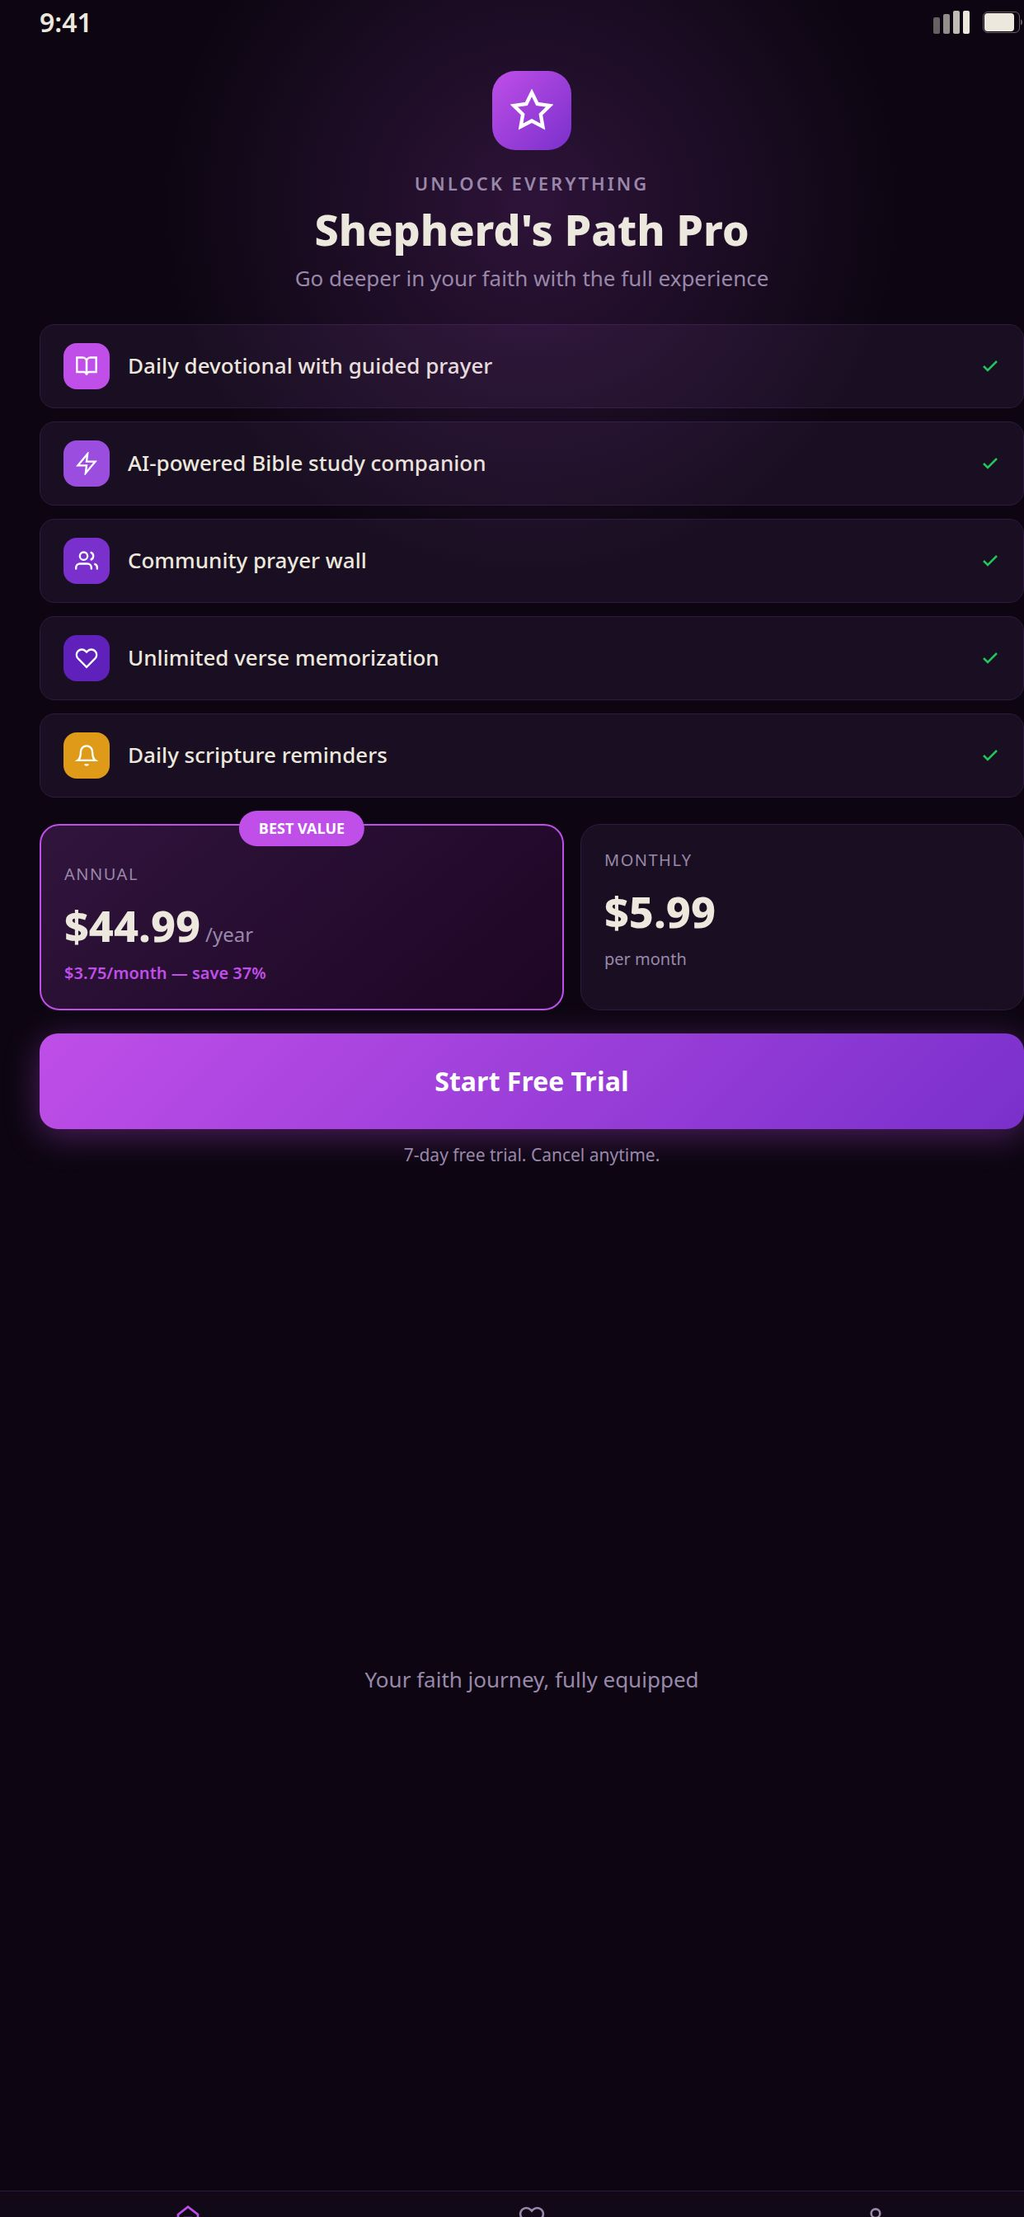
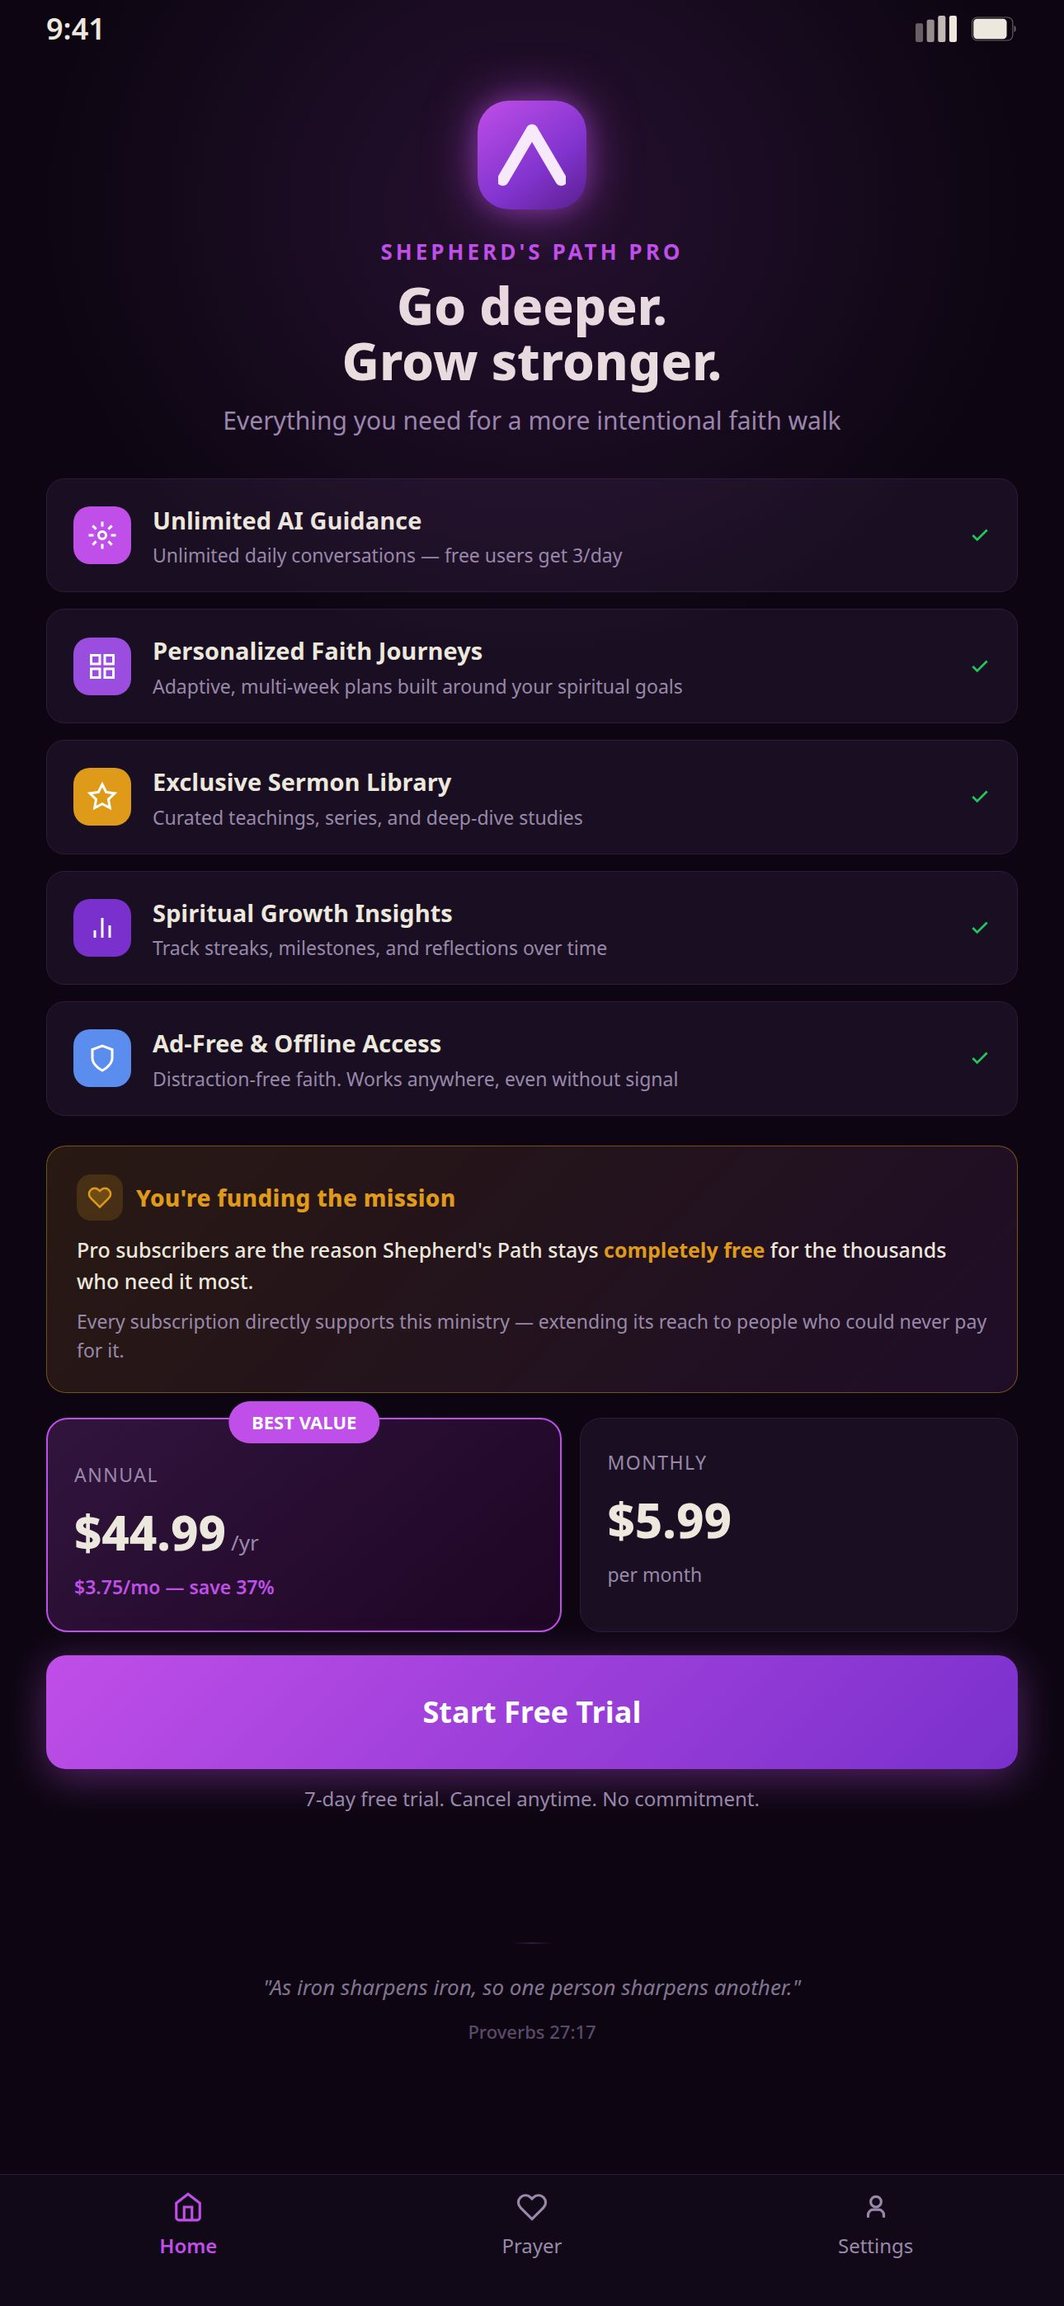
Improve layout and spacing to fill the entire screen height
Update screenshot component to adjust icon sizes, padding, and add a scripture verse to fill the vertical space and remove empty areas.

Replit-Commit-Author: Agent
Replit-Commit-Session-Id: e2261f30-a442-4f1f-88eb-873800836860
Replit-Commit-Checkpoint-Type: full_checkpoint
Replit-Commit-Event-Id: 91955ac8-fb3f-44cb-b4a0-e6cace20c1c3
Replit-Commit-Screenshot-Url: https://storage.googleapis.com/screenshot-production-us-central1/7994e962-1f00-4eda-966a-8af35b737e2c/e2261f30-a442-4f1f-88eb-873800836860/ZEef9ik
Replit-Helium-Checkpoint-Created: true

diff --git a/artifacts/mockup-sandbox/src/components/mockups/screenshot-5-pro.tsx b/artifacts/mockup-sandbox/src/components/mockups/screenshot-5-pro.tsx
@@ -11,7 +11,7 @@ export default function Screenshot5Pro() {
   const features = [
     {
       icon: (
-        <svg width="30" height="30" viewBox="0 0 24 24" fill="none" stroke="white" strokeWidth="2">
+        <svg width="36" height="36" viewBox="0 0 24 24" fill="none" stroke="white" strokeWidth="2">
           <circle cx="12" cy="12" r="3"/>
           <path d="M12 1v4M12 19v4M4.22 4.22l2.83 2.83M16.95 16.95l2.83 2.83M1 12h4M19 12h4M4.22 19.78l2.83-2.83M16.95 7.05l2.83-2.83"/>
         </svg>
@@ -22,7 +22,7 @@ export default function Screenshot5Pro() {
     },
     {
       icon: (
-        <svg width="30" height="30" viewBox="0 0 24 24" fill="none" stroke="white" strokeWidth="2">
+        <svg width="36" height="36" viewBox="0 0 24 24" fill="none" stroke="white" strokeWidth="2">
           <path d="M3 3h7v7H3zM14 3h7v7h-7zM14 14h7v7h-7zM3 14h7v7H3z"/>
         </svg>
       ),
@@ -32,7 +32,7 @@ export default function Screenshot5Pro() {
     },
     {
       icon: (
-        <svg width="30" height="30" viewBox="0 0 24 24" fill="none" stroke="white" strokeWidth="2">
+        <svg width="36" height="36" viewBox="0 0 24 24" fill="none" stroke="white" strokeWidth="2">
           <path d="M12 2l3.09 6.26L22 9.27l-5 4.87 1.18 6.88L12 17.77l-6.18 3.25L7 14.14 2 9.27l6.91-1.01L12 2z"/>
         </svg>
       ),
@@ -42,7 +42,7 @@ export default function Screenshot5Pro() {
     },
     {
       icon: (
-        <svg width="30" height="30" viewBox="0 0 24 24" fill="none" stroke="white" strokeWidth="2">
+        <svg width="36" height="36" viewBox="0 0 24 24" fill="none" stroke="white" strokeWidth="2">
           <path d="M18 20V10M12 20V4M6 20v-6"/>
         </svg>
       ),
@@ -52,7 +52,7 @@ export default function Screenshot5Pro() {
     },
     {
       icon: (
-        <svg width="30" height="30" viewBox="0 0 24 24" fill="none" stroke="white" strokeWidth="2">
+        <svg width="36" height="36" viewBox="0 0 24 24" fill="none" stroke="white" strokeWidth="2">
           <path d="M12 22s8-4 8-10V5l-8-3-8 3v7c0 6 8 10 8 10z"/>
         </svg>
       ),
@@ -76,174 +76,206 @@ export default function Screenshot5Pro() {
       {/* Decorative glow */}
       <div style={{
         position: "absolute",
-        top: -200,
+        top: -300,
         left: "50%",
         transform: "translateX(-50%)",
-        width: 1000,
-        height: 900,
+        width: 1200,
+        height: 1100,
         borderRadius: "50%",
-        background: "radial-gradient(ellipse, rgba(192,78,232,0.15) 0%, transparent 70%)",
+        background: "radial-gradient(ellipse, rgba(192,78,232,0.14) 0%, transparent 70%)",
         pointerEvents: "none",
       }} />
 
       {/* Status bar */}
-      <div style={{ height: 54, display: "flex", alignItems: "center", justifyContent: "space-between", padding: "0 48px", flexShrink: 0 }}>
-        <span style={{ color: fg, fontSize: 32, fontWeight: 600 }}>9:41</span>
-        <div style={{ display: "flex", alignItems: "center", gap: 16 }}>
-          <svg width="44" height="28" viewBox="0 0 44 28" fill="none"><rect x="0" y="8" width="8" height="20" rx="2" fill={fg} opacity="0.4"/><rect x="12" y="4" width="8" height="24" rx="2" fill={fg} opacity="0.6"/><rect x="24" y="0" width="8" height="28" rx="2" fill={fg} opacity="0.8"/><rect x="36" y="0" width="8" height="28" rx="2" fill={fg}/></svg>
-          <svg width="50" height="26" viewBox="0 0 50 26" fill="none"><rect x="0.5" y="0.5" width="44" height="25" rx="5.5" stroke={fg} strokeOpacity="0.4"/><rect x="2" y="2" width="36" height="22" rx="4" fill={fg}/><path d="M46 9.5V16.5C47.381 15.972 48 14.833 48 13C48 11.167 47.381 10.028 46 9.5Z" fill={fg} fillOpacity="0.4"/></svg>
+      <div style={{ height: 70, display: "flex", alignItems: "center", justifyContent: "space-between", padding: "0 56px", flexShrink: 0 }}>
+        <span style={{ color: fg, fontSize: 36, fontWeight: 600 }}>9:41</span>
+        <div style={{ display: "flex", alignItems: "center", gap: 18 }}>
+          <svg width="50" height="32" viewBox="0 0 44 28" fill="none"><rect x="0" y="8" width="8" height="20" rx="2" fill={fg} opacity="0.4"/><rect x="12" y="4" width="8" height="24" rx="2" fill={fg} opacity="0.6"/><rect x="24" y="0" width="8" height="28" rx="2" fill={fg} opacity="0.8"/><rect x="36" y="0" width="8" height="28" rx="2" fill={fg}/></svg>
+          <svg width="56" height="30" viewBox="0 0 50 26" fill="none"><rect x="0.5" y="0.5" width="44" height="25" rx="5.5" stroke={fg} strokeOpacity="0.4"/><rect x="2" y="2" width="36" height="22" rx="4" fill={fg}/><path d="M46 9.5V16.5C47.381 15.972 48 14.833 48 13C48 11.167 47.381 10.028 46 9.5Z" fill={fg} fillOpacity="0.4"/></svg>
         </div>
       </div>
 
       {/* Hero */}
-      <div style={{ padding: "24px 48px 0", textAlign: "center", flexShrink: 0 }}>
+      <div style={{ padding: "52px 56px 0", textAlign: "center", flexShrink: 0 }}>
         <div style={{
-          width: 88, height: 88, borderRadius: 26,
-          background: "linear-gradient(135deg, #c04ee8 0%, #7a30cc 100%)",
+          width: 132, height: 132, borderRadius: 38,
+          background: "linear-gradient(145deg, #c04ee8 0%, #7a30cc 60%, #4a1880 100%)",
           display: "flex", alignItems: "center", justifyContent: "center",
-          margin: "0 auto 20px",
-          boxShadow: "0 0 40px rgba(192,78,232,0.4)",
+          margin: "0 auto 32px",
+          boxShadow: "0 0 60px rgba(192,78,232,0.55), 0 0 28px rgba(192,78,232,0.3)",
         }}>
-          <svg width="48" height="48" viewBox="0 0 24 24" fill="none" stroke="white" strokeWidth="2"><path d="M12 2l3.09 6.26L22 9.27l-5 4.87 1.18 6.88L12 17.77l-6.18 3.25L7 14.14 2 9.27l6.91-1.01L12 2z"/></svg>
+          <svg width="82" height="76" viewBox="0 0 62 58" fill="none">
+            <line x1="31" y1="6" x2="4" y2="52" stroke="white" strokeWidth="11" strokeLinecap="round"/>
+            <line x1="31" y1="6" x2="58" y2="52" stroke="white" strokeWidth="11" strokeLinecap="round"/>
+            <line x1="31" y1="9" x2="7" y2="50" stroke="rgba(255,255,255,0.25)" strokeWidth="4" strokeLinecap="round"/>
+          </svg>
         </div>
-        <p style={{ color: primary, fontSize: 20, margin: "0 0 8px", textTransform: "uppercase", letterSpacing: 3, fontWeight: 700 }}>Shepherd's Path Pro</p>
-        <p style={{ color: fg, fontSize: 48, fontWeight: 800, margin: "0 0 10px", lineHeight: 1.1 }}>Go deeper.<br/>Grow stronger.</p>
-        <p style={{ color: muted, fontSize: 24, margin: 0, lineHeight: 1.5, padding: "0 20px" }}>
+        <p style={{ color: primary, fontSize: 26, margin: "0 0 12px", textTransform: "uppercase", letterSpacing: 4, fontWeight: 700 }}>Shepherd's Path Pro</p>
+        <p style={{ color: fg, fontSize: 62, fontWeight: 800, margin: "0 0 16px", lineHeight: 1.08 }}>Go deeper.<br/>Grow stronger.</p>
+        <p style={{ color: muted, fontSize: 30, margin: 0, lineHeight: 1.5, padding: "0 20px" }}>
           Everything you need for a more intentional faith walk
         </p>
       </div>
 
       {/* Features */}
-      <div style={{ padding: "24px 48px 0", display: "flex", flexDirection: "column", gap: 14, flexShrink: 0 }}>
+      <div style={{ padding: "48px 56px 0", display: "flex", flexDirection: "column", gap: 20, flexShrink: 0 }}>
         {features.map((f, i) => (
           <div key={i} style={{
-            background: card, borderRadius: 18,
-            padding: "20px 24px",
+            background: card, borderRadius: 22,
+            padding: "28px 32px",
             border: `1px solid ${border}`,
-            display: "flex", alignItems: "center", gap: 20,
+            display: "flex", alignItems: "center", gap: 26,
           }}>
             <div style={{
-              width: 54, height: 54, borderRadius: 16,
+              width: 70, height: 70, borderRadius: 20,
               background: f.color, flexShrink: 0,
               display: "flex", alignItems: "center", justifyContent: "center",
             }}>
               {f.icon}
             </div>
             <div style={{ flex: 1, minWidth: 0 }}>
-              <p style={{ color: fg, fontSize: 25, fontWeight: 700, margin: "0 0 4px" }}>{f.title}</p>
-              <p style={{ color: muted, fontSize: 20, margin: 0, lineHeight: 1.35 }}>{f.sub}</p>
+              <p style={{ color: fg, fontSize: 29, fontWeight: 700, margin: "0 0 6px" }}>{f.title}</p>
+              <p style={{ color: muted, fontSize: 23, margin: 0, lineHeight: 1.35 }}>{f.sub}</p>
             </div>
-            <svg width="22" height="22" viewBox="0 0 24 24" fill="none" stroke={green} strokeWidth="2.5" style={{ flexShrink: 0 }}><polyline points="20 6 9 17 4 12"/></svg>
+            <svg width="26" height="26" viewBox="0 0 24 24" fill="none" stroke={green} strokeWidth="2.5" style={{ flexShrink: 0 }}><polyline points="20 6 9 17 4 12"/></svg>
           </div>
         ))}
       </div>
 
       {/* Ministry mission banner */}
       <div style={{
-        margin: "20px 48px 0",
-        background: `linear-gradient(135deg, rgba(224,154,26,0.13) 0%, rgba(192,78,232,0.10) 100%)`,
-        borderRadius: 20,
-        border: `1px solid rgba(224,154,26,0.45)`,
-        padding: "26px 30px",
+        margin: "36px 56px 0",
+        background: "linear-gradient(135deg, rgba(224,154,26,0.13) 0%, rgba(192,78,232,0.10) 100%)",
+        borderRadius: 24,
+        border: "1px solid rgba(224,154,26,0.45)",
+        padding: "34px 36px",
         flexShrink: 0,
       }}>
-        {/* Header row */}
-        <div style={{ display: "flex", alignItems: "center", gap: 14, marginBottom: 12 }}>
+        <div style={{ display: "flex", alignItems: "center", gap: 16, marginBottom: 16 }}>
           <div style={{
-            width: 46, height: 46, borderRadius: 14, flexShrink: 0,
+            width: 56, height: 56, borderRadius: 17, flexShrink: 0,
             background: "rgba(224,154,26,0.18)",
             display: "flex", alignItems: "center", justifyContent: "center",
           }}>
-            <svg width="26" height="26" viewBox="0 0 24 24" fill="none" stroke={gold} strokeWidth="2">
+            <svg width="30" height="30" viewBox="0 0 24 24" fill="none" stroke={gold} strokeWidth="2">
               <path d="M20.84 4.61a5.5 5.5 0 0 0-7.78 0L12 5.67l-1.06-1.06a5.5 5.5 0 0 0-7.78 7.78l1.06 1.06L12 21.23l7.78-7.78 1.06-1.06a5.5 5.5 0 0 0 0-7.78z" fill={gold} fillOpacity="0.25"/>
             </svg>
           </div>
-          <p style={{ color: gold, fontSize: 24, fontWeight: 800, margin: 0, letterSpacing: 0.3 }}>
+          <p style={{ color: gold, fontSize: 28, fontWeight: 800, margin: 0, letterSpacing: 0.3 }}>
             You're funding the mission
           </p>
         </div>
-        <p style={{ color: fg, fontSize: 21, margin: "0 0 10px", lineHeight: 1.55, fontWeight: 500 }}>
-          Pro subscribers are the reason Shepherd's Path stays <span style={{ color: gold, fontWeight: 700 }}>completely free</span> for the thousands who need it most.
+        <p style={{ color: fg, fontSize: 25, margin: "0 0 12px", lineHeight: 1.55, fontWeight: 500 }}>
+          Pro subscribers are the reason Shepherd's Path stays{" "}
+          <span style={{ color: gold, fontWeight: 700 }}>completely free</span> for the thousands who need it most.
         </p>
-        <p style={{ color: muted, fontSize: 19, margin: 0, lineHeight: 1.5 }}>
+        <p style={{ color: muted, fontSize: 23, margin: 0, lineHeight: 1.5 }}>
           Every subscription directly supports this ministry — extending its reach to people who could never pay for it.
         </p>
       </div>
 
       {/* Pricing */}
-      <div style={{ padding: "18px 48px 0", display: "flex", gap: 18, flexShrink: 0 }}>
+      <div style={{ padding: "30px 56px 0", display: "flex", gap: 22, flexShrink: 0 }}>
         {/* Annual */}
         <div style={{
           flex: 1.2,
           background: "linear-gradient(140deg, rgba(192,78,232,0.2) 0%, rgba(122,1,141,0.15) 100%)",
-          borderRadius: 22, padding: "26px 26px",
+          borderRadius: 26, padding: "36px 32px",
           border: `2px solid ${primary}`,
           position: "relative",
         }}>
           <div style={{
-            position: "absolute", top: -18, left: "50%", transform: "translateX(-50%)",
-            background: primary, borderRadius: 100, padding: "7px 22px",
+            position: "absolute", top: -22, left: "50%", transform: "translateX(-50%)",
+            background: primary, borderRadius: 100, padding: "9px 28px",
             whiteSpace: "nowrap",
           }}>
-            <span style={{ color: "white", fontSize: 18, fontWeight: 700 }}>BEST VALUE</span>
+            <span style={{ color: "white", fontSize: 22, fontWeight: 700 }}>BEST VALUE</span>
           </div>
-          <p style={{ color: muted, fontSize: 19, margin: "14px 0 6px", textTransform: "uppercase", letterSpacing: 1.5 }}>Annual</p>
-          <div style={{ display: "flex", alignItems: "baseline", gap: 5 }}>
-            <span style={{ color: fg, fontSize: 48, fontWeight: 800 }}>$44.99</span>
-            <span style={{ color: muted, fontSize: 22 }}>/yr</span>
+          <p style={{ color: muted, fontSize: 23, margin: "14px 0 8px", textTransform: "uppercase", letterSpacing: 1.5 }}>Annual</p>
+          <div style={{ display: "flex", alignItems: "baseline", gap: 6 }}>
+            <span style={{ color: fg, fontSize: 58, fontWeight: 800 }}>$44.99</span>
+            <span style={{ color: muted, fontSize: 26 }}>/yr</span>
           </div>
-          <p style={{ color: primary, fontSize: 19, margin: "4px 0 0", fontWeight: 600 }}>$3.75/mo — save 37%</p>
+          <p style={{ color: primary, fontSize: 23, margin: "6px 0 0", fontWeight: 600 }}>$3.75/mo — save 37%</p>
         </div>
 
         {/* Monthly */}
         <div style={{
           flex: 1,
-          background: card, borderRadius: 22, padding: "26px 26px",
+          background: card, borderRadius: 26, padding: "36px 32px",
           border: `1px solid ${border}`,
         }}>
-          <p style={{ color: muted, fontSize: 19, margin: "0 0 6px", textTransform: "uppercase", letterSpacing: 1.5 }}>Monthly</p>
-          <div style={{ display: "flex", alignItems: "baseline", gap: 5 }}>
-            <span style={{ color: fg, fontSize: 48, fontWeight: 800 }}>$5.99</span>
+          <p style={{ color: muted, fontSize: 23, margin: "0 0 8px", textTransform: "uppercase", letterSpacing: 1.5 }}>Monthly</p>
+          <div style={{ display: "flex", alignItems: "baseline", gap: 6 }}>
+            <span style={{ color: fg, fontSize: 58, fontWeight: 800 }}>$5.99</span>
           </div>
-          <p style={{ color: muted, fontSize: 19, margin: "4px 0 0" }}>per month</p>
+          <p style={{ color: muted, fontSize: 23, margin: "6px 0 0" }}>per month</p>
         </div>
       </div>
 
       {/* CTA */}
-      <div style={{ padding: "18px 48px 0", flexShrink: 0 }}>
+      <div style={{ padding: "28px 56px 0", flexShrink: 0 }}>
         <button style={{
           width: "100%",
           background: "linear-gradient(135deg, #c04ee8, #7a30cc)",
-          borderRadius: 20, padding: "32px 40px", border: "none", cursor: "pointer",
-          boxShadow: "0 8px 40px rgba(192,78,232,0.35)",
+          borderRadius: 24, padding: "42px 48px", border: "none", cursor: "pointer",
+          boxShadow: "0 10px 50px rgba(192,78,232,0.4)",
         }}>
-          <span style={{ color: "white", fontSize: 30, fontWeight: 700 }}>Start Free Trial</span>
+          <span style={{ color: "white", fontSize: 36, fontWeight: 700 }}>Start Free Trial</span>
         </button>
-        <p style={{ color: muted, fontSize: 20, textAlign: "center", margin: "12px 0 0" }}>
+        <p style={{ color: muted, fontSize: 24, textAlign: "center", margin: "18px 0 0" }}>
           7-day free trial. Cancel anytime. No commitment.
         </p>
       </div>
 
+      {/* Scripture closer */}
+      <div style={{
+        flex: 1,
+        display: "flex",
+        flexDirection: "column",
+        alignItems: "center",
+        justifyContent: "center",
+        padding: "0 80px",
+      }}>
+        <div style={{
+          width: 48,
+          height: 2,
+          background: `linear-gradient(90deg, transparent, ${border}, transparent)`,
+          marginBottom: 32,
+        }} />
+        <p style={{
+          color: muted,
+          fontSize: 26,
+          textAlign: "center",
+          lineHeight: 1.6,
+          margin: "0 0 16px",
+          fontStyle: "italic",
+          opacity: 0.85,
+        }}>
+          "As iron sharpens iron, so one person sharpens another."
+        </p>
+        <p style={{ color: "#5a4a6a", fontSize: 22, margin: 0, fontWeight: 500 }}>Proverbs 27:17</p>
+      </div>
+
       {/* Tab bar */}
       <div style={{
-        height: 140,
+        height: 160,
         background: "#110818",
         borderTop: `1px solid ${border}`,
         display: "flex",
         alignItems: "flex-start",
         justifyContent: "space-around",
-        padding: "16px 20px 0",
+        padding: "20px 20px 0",
         flexShrink: 0,
-        marginTop: "auto",
       }}>
         {[
-          { icon: <svg width="32" height="32" viewBox="0 0 24 24" fill="none" stroke={primary} strokeWidth="2"><path d="M3 9l9-7 9 7v11a2 2 0 0 1-2 2H5a2 2 0 0 1-2-2z"/><polyline points="9 22 9 12 15 12 15 22"/></svg>, label: "Home", active: true },
-          { icon: <svg width="32" height="32" viewBox="0 0 24 24" fill="none" stroke={muted} strokeWidth="2"><path d="M20.84 4.61a5.5 5.5 0 0 0-7.78 0L12 5.67l-1.06-1.06a5.5 5.5 0 0 0-7.78 7.78l1.06 1.06L12 21.23l7.78-7.78 1.06-1.06a5.5 5.5 0 0 0 0-7.78z"/></svg>, label: "Prayer", active: false },
-          { icon: <svg width="32" height="32" viewBox="0 0 24 24" fill="none" stroke={muted} strokeWidth="2"><circle cx="12" cy="8" r="4"/><path d="M6 20v-2a4 4 0 0 1 4-4h4a4 4 0 0 1 4 4v2"/></svg>, label: "Settings", active: false },
+          { icon: <svg width="38" height="38" viewBox="0 0 24 24" fill="none" stroke={primary} strokeWidth="2"><path d="M3 9l9-7 9 7v11a2 2 0 0 1-2 2H5a2 2 0 0 1-2-2z"/><polyline points="9 22 9 12 15 12 15 22"/></svg>, label: "Home", active: true },
+          { icon: <svg width="38" height="38" viewBox="0 0 24 24" fill="none" stroke={muted} strokeWidth="2"><path d="M20.84 4.61a5.5 5.5 0 0 0-7.78 0L12 5.67l-1.06-1.06a5.5 5.5 0 0 0-7.78 7.78l1.06 1.06L12 21.23l7.78-7.78 1.06-1.06a5.5 5.5 0 0 0 0-7.78z"/></svg>, label: "Prayer", active: false },
+          { icon: <svg width="38" height="38" viewBox="0 0 24 24" fill="none" stroke={muted} strokeWidth="2"><circle cx="12" cy="8" r="4"/><path d="M6 20v-2a4 4 0 0 1 4-4h4a4 4 0 0 1 4 4v2"/></svg>, label: "Settings", active: false },
         ].map(({ icon, label, active }) => (
-          <div key={label} style={{ display: "flex", flexDirection: "column", alignItems: "center", gap: 8, minWidth: 100 }}>
+          <div key={label} style={{ display: "flex", flexDirection: "column", alignItems: "center", gap: 10, minWidth: 120 }}>
             {icon}
-            <span style={{ fontSize: 20, color: active ? primary : muted, fontWeight: active ? 600 : 400 }}>{label}</span>
+            <span style={{ fontSize: 24, color: active ? primary : muted, fontWeight: active ? 600 : 400 }}>{label}</span>
           </div>
         ))}
       </div>
